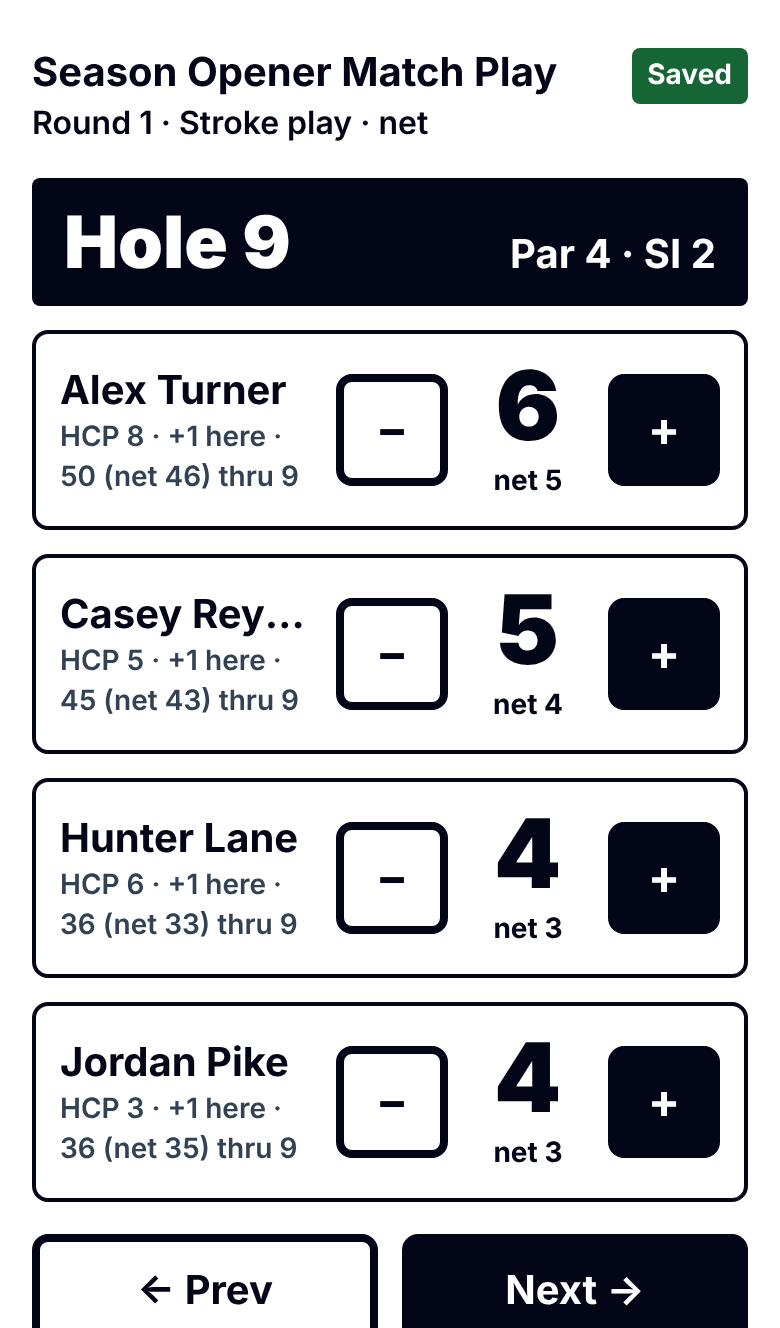
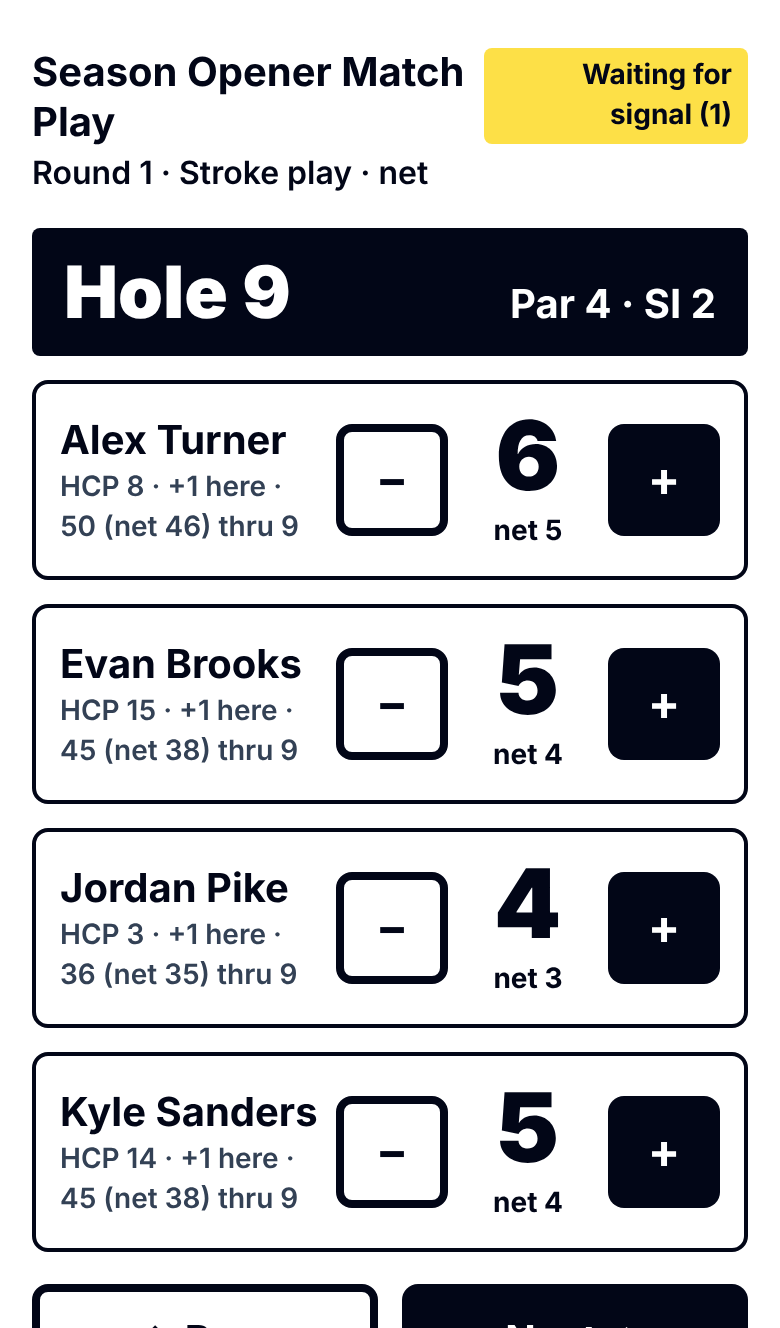
fix(scorecard): service worker caches only real scorecards, prunes, and the cached page has no account nav
Claude-Session: https://claude.ai/code/session_0187sESXVTZDKtGNzMULCxre

Changed region(s): [[0.0308, 0.0309, 0.9846, 1.0]]

diff --git a/apps/web/test/serviceWorker.test.ts b/apps/web/test/serviceWorker.test.ts
@@ -44,6 +44,7 @@ type Sandbox = {
   handlers: Record<string, Handler>;
   store: Map<string, Response>;
   fetch: ReturnType<typeof vi.fn>;
+  deleted: string[];
 };
 
 /** Run sw.js against an in-memory Cache API and a scripted fetch. */
@@ -57,9 +58,17 @@ function boot(): Sandbox {
   const store = new Map<string, Response>();
   const keyOf = (r: string | Request) => (typeof r === 'string' ? r : r.url);
   const cache = {
-    put: async (r: string | Request, res: Response) => void store.set(keyOf(r), res),
+    // like the real Cache API, put of an existing key moves it to the end (insertion order = recency)
+    put: async (r: string | Request, res: Response) => {
+      store.delete(keyOf(r));
+      store.set(keyOf(r), res);
+    },
     match: async (r: string | Request) => store.get(keyOf(r))?.clone(),
+    keys: async () => [...store.keys()].map((url) => ({ url })),
+    delete: async (r: string | Request) => store.delete(keyOf(r)),
   };
+  const cacheNames = ['hgt-scorecard-v1', 'hgt-scorecard-v2', 'other-app'];
+  const deleted: string[] = [];
   const fetch = vi.fn();
   vm.runInNewContext(readFileSync(path.resolve(__dirname, '../public/sw.js'), 'utf8'), {
     self,
@@ -70,15 +79,22 @@ function boot(): Sandbox {
     String,
     setTimeout,
     fetch,
-    caches: { open: async () => cache, keys: async () => [], delete: async () => true },
+    caches: {
+      open: async () => cache,
+      keys: async () => cacheNames,
+      delete: async (n: string) => (deleted.push(n), true),
+    },
   });
-  return { self, handlers, store, fetch };
+  return { self, handlers, store, fetch, deleted };
 }
-const basic = (body: string) => {
-  const r = new Response(body, { status: 200 });
+const basic = (body: string, init: ResponseInit = { status: 200 }, extra: Record<string, unknown> = {}) => {
+  const r = new Response(body, init);
   Object.defineProperty(r, 'type', { value: 'basic' });
+  for (const [k, v] of Object.entries(extra)) Object.defineProperty(r, k, { value: v });
   return r;
 };
+/** A scorecard document as the page renders it: carries the data-hgt-card marker. */
+const card = (body = 'card') => basic(`<div data-hgt-card="1">${body}</div>`);
 
 describe('service worker precache and timeout', () => {
   afterEach(() => vi.useRealTimers());
@@ -95,7 +111,7 @@ describe('service worker precache and timeout', () => {
 
   it("a 'cache-urls' message fetches and stores the page and its static files, ignoring anything else", async () => {
     const sb = boot();
-    sb.fetch.mockImplementation(async (u: string) => basic(`body of ${u}`));
+    sb.fetch.mockImplementation(async (u: string) => (u.includes('/c/') ? card(`body of ${u}`) : basic(`body of ${u}`)));
     let done: Promise<unknown> = Promise.resolve();
     sb.handlers.message!({
       data: { type: 'cache-urls', urls: [`${O}/c/ABC234`, `${O}/_next/static/chunks/a.js`, `${O}/admin`, 'https://evil.test/_next/static/x.js'] },
@@ -132,9 +148,9 @@ describe('service worker precache and timeout', () => {
 
   it('network first: a fresh response is returned and stored', async () => {
     const sb = boot();
-    sb.fetch.mockResolvedValue(basic('fresh'));
+    sb.fetch.mockResolvedValue(card('fresh'));
     const res = await respond(sb, nav(`${O}/c/ABC234`));
-    expect(await res.text()).toBe('fresh');
+    expect(await res.text()).toContain('fresh');
     expect(sb.store.has(`${O}/c/ABC234`)).toBe(true);
   });
 
@@ -159,5 +175,55 @@ describe('service worker precache and timeout', () => {
     expect(settled).toBe(false);
     await vi.advanceTimersByTimeAsync(200);
     expect(await (await p).text()).toBe('cached');
+  });
+
+  it('does not cache the "no group has that code" page, a non-OK or a redirected response (but still returns it)', async () => {
+    const sb = boot();
+    sb.fetch.mockResolvedValueOnce(basic('<p>No group has that code.</p>')); // 200 but not a card
+    expect(await (await respond(sb, nav(`${O}/c/AAA222`))).text()).toContain('No group');
+    sb.fetch.mockResolvedValueOnce(basic('<div data-hgt-card="1"></div>', { status: 500 }));
+    await respond(sb, nav(`${O}/c/BBB222`));
+    sb.fetch.mockResolvedValueOnce(basic('<div data-hgt-card="1"></div>', { status: 200 }, { redirected: true }));
+    await respond(sb, nav(`${O}/c/ccc222`));
+    expect([...sb.store.keys()]).toEqual([]);
+    // the same rules apply to the page's own 'cache-urls' precache
+    sb.fetch.mockImplementation(async () => basic('<p>No group has that code.</p>'));
+    let done: Promise<unknown> = Promise.resolve();
+    sb.handlers.message!({ data: { type: 'cache-urls', urls: [`${O}/c/AAA222`] }, waitUntil: (p: Promise<unknown>) => (done = p) });
+    await done;
+    expect([...sb.store.keys()]).toEqual([]);
+  });
+
+  it('keeps only the 20 most recent /c/ documents', async () => {
+    const sb = boot();
+    sb.fetch.mockImplementation(async () => card());
+    for (let i = 0; i < 23; i++) await respond(sb, nav(`${O}/c/CODE${String(i).padStart(2, '0')}`));
+    const docs = [...sb.store.keys()];
+    expect(docs).toHaveLength(20);
+    expect(docs[0]).toBe(`${O}/c/CODE03`);
+    expect(docs.at(-1)).toBe(`${O}/c/CODE22`);
+  });
+
+  it('a page message prunes /_next/static files that are not in the current build', async () => {
+    const sb = boot();
+    sb.store.set(`${O}/_next/static/chunks/old.js`, basic('old'));
+    sb.store.set(`${O}/c/ABC234`, card());
+    sb.fetch.mockImplementation(async (u: string) => (u.includes('/c/') ? card() : basic('new')));
+    let done: Promise<unknown> = Promise.resolve();
+    sb.handlers.message!({
+      data: { type: 'cache-urls', urls: [`${O}/c/ABC234`, `${O}/_next/static/chunks/new.js`] },
+      waitUntil: (p: Promise<unknown>) => (done = p),
+    });
+    await done;
+    expect([...sb.store.keys()].sort()).toEqual([`${O}/_next/static/chunks/new.js`, `${O}/c/ABC234`]);
+  });
+
+  it('activate drops older hgt-scorecard caches only', async () => {
+    const sb = boot();
+    sb.self.clients = { claim: vi.fn() };
+    let done: Promise<unknown> = Promise.resolve();
+    sb.handlers.activate!({ waitUntil: (p: Promise<unknown>) => (done = p) });
+    await done;
+    expect(sb.deleted).toEqual(['hgt-scorecard-v1']);
   });
 });

diff --git a/apps/web/public/sw.js b/apps/web/public/sw.js
@@ -4,9 +4,14 @@
  * API calls and other pages always go to the network). Registered with scope /c/.
  * The first visit happens before this worker controls the page, so the page also sends a
  * 'cache-urls' message (its own /c/<code> URL and the /_next/static files it loaded) and
- * one online visit is enough. */
-const CACHE = 'hgt-scorecard-v1';
+ * one online visit is enough. Only a real scorecard document is stored (not the "no group has
+ * that code" page, errors or redirects); /c/ documents are capped at the 20 most recent, and the
+ * page's message also prunes /_next/static files of older builds. */
+const CACHE = 'hgt-scorecard-v2';
 const NETWORK_TIMEOUT_MS = 3000;
+/** The scorecard page renders this attribute only when a group was found; the "no group has that code" page does not. */
+const CARD_MARKER = 'data-hgt-card';
+const MAX_DOCS = 20;
 
 /** 'page' | 'static' | null — what to do with a request (exported for tests via self.hgtRoute). */
 function route(url, method, mode, origin) {
@@ -42,12 +47,43 @@ self.hgtCacheable = cacheable;
 
 const MATCH = { ignoreSearch: false, ignoreVary: true };
 
+const pathOf = (url) => new URL(url).pathname;
+
+/** Only a good, direct answer is worth keeping: OK, not redirected, same origin, and for a /c/ document an actual scorecard. */
+async function storable(url, response) {
+  if (!response.ok || response.redirected || response.type !== 'basic') return false;
+  if (pathOf(url).startsWith('/c/')) {
+    const text = await response.clone().text();
+    return text.indexOf(CARD_MARKER) !== -1;
+  }
+  return true;
+}
+
+async function put(cache, request, response) {
+  if (!(await storable(typeof request === 'string' ? request : request.url, response))) return;
+  await cache.put(request, response.clone());
+  await capDocs(cache);
+}
+
+/** Keep the MAX_DOCS most recently written /c/ documents (Cache API keys come back oldest first). */
+async function capDocs(cache) {
+  const docs = (await cache.keys()).filter((r) => pathOf(r.url).startsWith('/c/'));
+  await Promise.all(docs.slice(0, Math.max(0, docs.length - MAX_DOCS)).map((r) => cache.delete(r)));
+}
+
+/** Drop cached /_next/static files that the current build's page did not load (an older build). */
+async function pruneStatic(cache, keep) {
+  if (!keep.size) return;
+  const stale = (await cache.keys()).filter((r) => pathOf(r.url).startsWith('/_next/static/') && !keep.has(r.url));
+  await Promise.all(stale.map((r) => cache.delete(r)));
+}
+
 /** Network first; when the network is slow (lie-fi) or down, the cached copy. */
 async function networkFirst(request) {
   const cache = await caches.open(CACHE);
   const cached = await cache.match(request, MATCH);
   const network = fetch(request).then(async (response) => {
-    if (response.ok && response.type === 'basic') await cache.put(request, response.clone());
+    await put(cache, request, response);
     return response;
   });
   if (!cached) return network;
@@ -65,7 +101,7 @@ async function precache(urls) {
     urls.map(async (u) => {
       try {
         const response = await fetch(u, { credentials: 'same-origin' });
-        if (response.ok && response.type === 'basic') await cache.put(u, response);
+        await put(cache, u, response);
       } catch (e) {
         // offline or gone: the next online visit tries again
       }
@@ -79,6 +115,8 @@ self.addEventListener('activate', (event) => {
     caches
       .keys()
       .then((keys) => Promise.all(keys.filter((k) => k.startsWith('hgt-scorecard-') && k !== CACHE).map((k) => caches.delete(k))))
+      .then(() => caches.open(CACHE))
+      .then((cache) => capDocs(cache))
       .then(() => self.clients.claim()),
   );
 });
@@ -90,5 +128,8 @@ self.addEventListener('message', (event) => {
   const d = event.data;
   if (!d || d.type !== 'cache-urls' || !Array.isArray(d.urls)) return;
   const urls = [...new Set(d.urls.slice(0, 200).map((u) => cacheable(String(u), self.location.origin)).filter(Boolean))];
-  if (urls.length) event.waitUntil(precache(urls));
+  if (!urls.length) return;
+  // The page lists the /_next/static files of the build it runs on, so anything else cached is an older build.
+  const current = new Set(urls.filter((u) => pathOf(u).startsWith('/_next/static/')));
+  event.waitUntil(precache(urls).then(() => caches.open(CACHE)).then((cache) => pruneStatic(cache, current)));
 });

diff --git a/apps/web/test/layout.test.tsx b/apps/web/test/layout.test.tsx
@@ -1,0 +1,36 @@
+import { beforeEach, describe, expect, it, vi } from 'vitest';
+import { renderToStaticMarkup } from 'react-dom/server';
+
+const h = vi.hoisted(() => ({ path: '/events', getCurrentPlayer: vi.fn() }));
+vi.mock('next/headers', () => ({ headers: async () => new Headers({ 'x-hgt-path': h.path }) }));
+vi.mock('@/lib/auth', () => ({ getCurrentPlayer: h.getCurrentPlayer }));
+vi.mock('@/components/TabBar', () => ({ TabBar: () => <nav aria-label="Primary">tabs</nav> }));
+vi.mock('../src/app/globals.css', () => ({}));
+
+import RootLayout from '@/app/layout';
+
+beforeEach(() => {
+  h.getCurrentPlayer.mockReset();
+  h.getCurrentPlayer.mockResolvedValue({ userId: 'u', player: { is_commissioner: true } });
+});
+
+const html = async () => renderToStaticMarkup(await RootLayout({ children: <p>page</p> }));
+
+describe('root layout tab bar', () => {
+  it('signed-in pages get the tab bar', async () => {
+    expect(await html()).toContain('Primary');
+  });
+  it('/c/<code> renders without the account-specific nav, and never looks the account up', async () => {
+    h.path = '/c/ABC234';
+    const out = await html();
+    expect(out).not.toContain('Primary');
+    expect(out).toContain('page');
+    expect(h.getCurrentPlayer).not.toHaveBeenCalled();
+    h.path = '/events';
+  });
+  it('/c (enter a code) is outside the cached scope and keeps the tab bar', async () => {
+    h.path = '/c';
+    expect(await html()).toContain('Primary');
+    h.path = '/events';
+  });
+});

diff --git a/apps/web/src/middleware.ts b/apps/web/src/middleware.ts
@@ -4,13 +4,20 @@ import { isPublicPath } from '@/lib/publicPaths';
 import { publicOrigin } from '@/lib/publicOrigin';
 
 export async function middleware(request: NextRequest) {
-  let response = NextResponse.next({ request });
+  // Tell the root layout which path this is (it cannot see the URL); always overwritten, so a client cannot set it.
+  // Built per use, so refreshed session cookies set on `request` below are forwarded too.
+  const forwarded = () => {
+    const h = new Headers(request.headers);
+    h.set('x-hgt-path', request.nextUrl.pathname);
+    return { headers: h };
+  };
+  let response = NextResponse.next({ request: forwarded() });
   const supabase = createServerClient(process.env.NEXT_PUBLIC_SUPABASE_URL!, process.env.NEXT_PUBLIC_SUPABASE_ANON_KEY!, {
     cookies: {
       getAll: () => request.cookies.getAll(),
       setAll: (list) => {
         list.forEach(({ name, value }) => request.cookies.set(name, value));
-        response = NextResponse.next({ request });
+        response = NextResponse.next({ request: forwarded() });
         list.forEach(({ name, value, options }) => response.cookies.set(name, value, options));
       },
     },

diff --git a/apps/web/src/app/layout.tsx b/apps/web/src/app/layout.tsx
@@ -1,3 +1,4 @@
+import { headers } from 'next/headers';
 import type { Metadata, Viewport } from 'next';
 import './globals.css';
 import { TabBar } from '@/components/TabBar';
@@ -7,7 +8,10 @@ export const metadata: Metadata = { title: 'Huntsville Golf Tour' };
 export const viewport: Viewport = { width: 'device-width', initialScale: 1 };
 
 export default async function RootLayout({ children }: { children: React.ReactNode }) {
-  const current = await getCurrentPlayer();
+  // The scorecard (/c/<code>) is cached offline by a service worker, so it must not carry the
+  // signed-in tab bar (or anything else about the account). Middleware sets x-hgt-path on every request.
+  const onScorecard = ((await headers()).get('x-hgt-path') ?? '').startsWith('/c/');
+  const current = onScorecard ? null : await getCurrentPlayer();
   return (
     <html lang="en">
       <body>

diff --git a/apps/web/src/app/c/[code]/page.tsx b/apps/web/src/app/c/[code]/page.tsx
@@ -43,9 +43,10 @@ export default async function ScorecardPage({ params }: { params: Promise<{ code
     );
   }
   return (
-    <>
+    // data-hgt-card tells the service worker this is a real scorecard (safe to cache), not the "no group" page.
+    <div data-hgt-card="1">
       <RegisterServiceWorker />
       <Scorecard code={code} initial={result.data} />
-    </>
+    </div>
   );
 }
